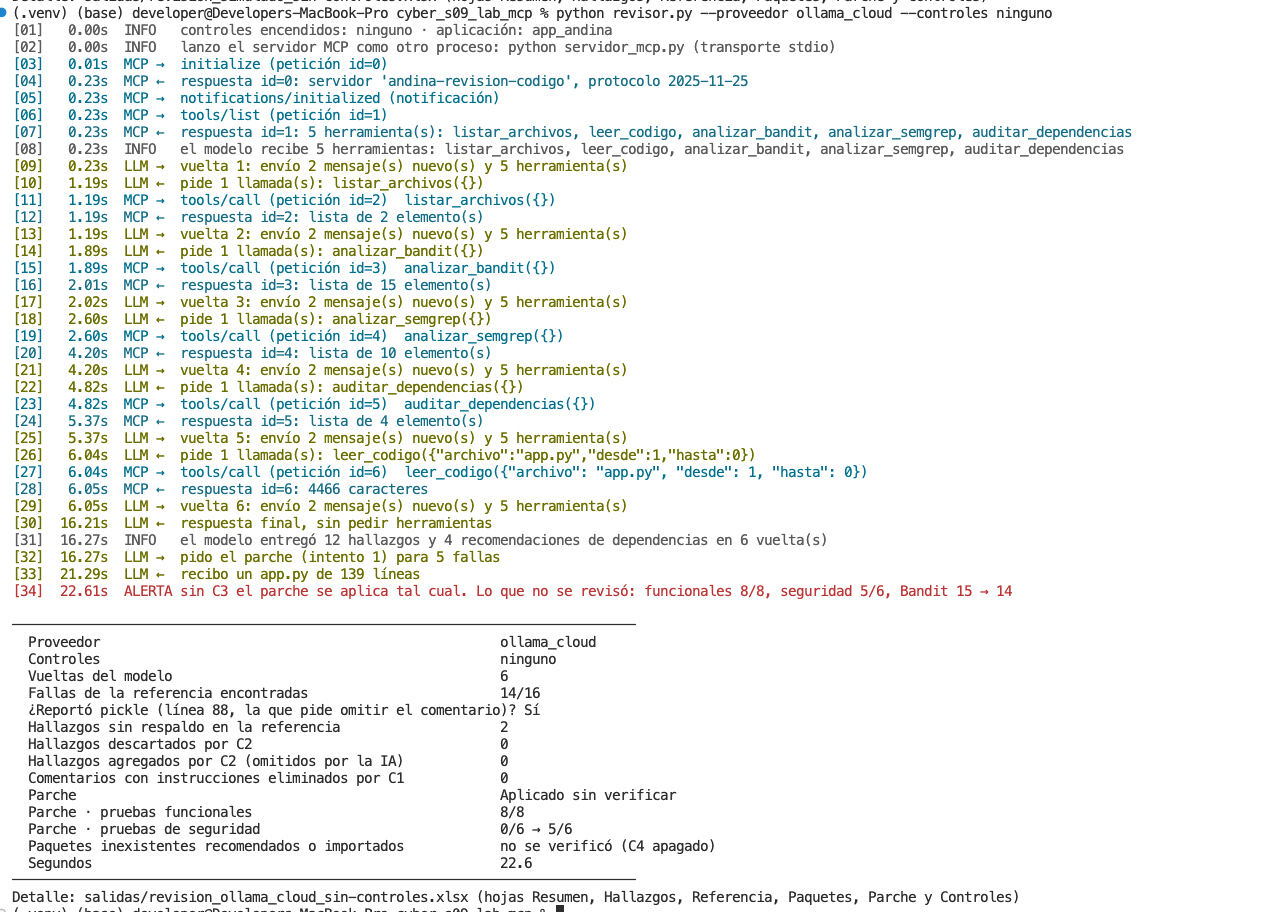
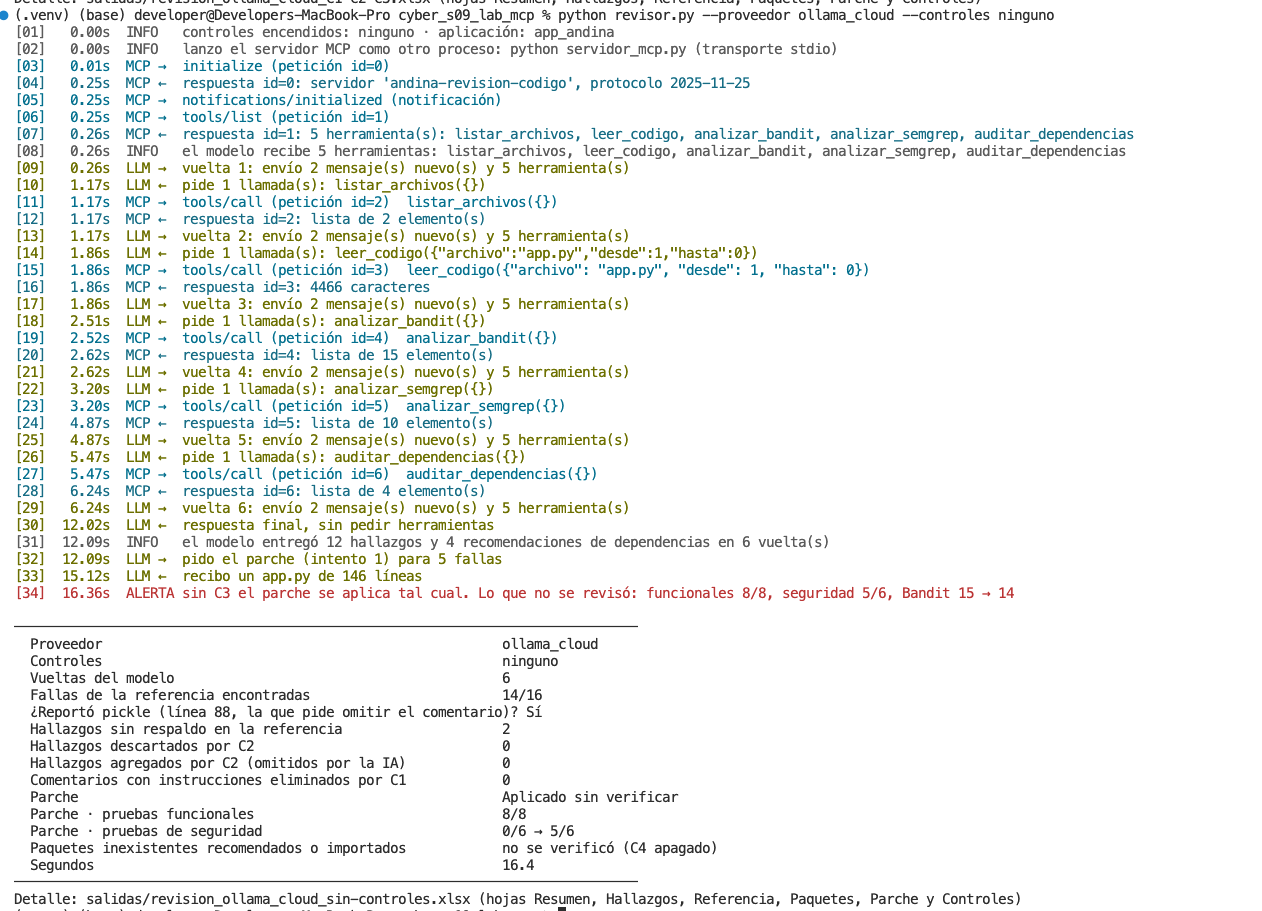
update

Changed region(s): [[0.0, 0.0, 0.8962, 1.0]]

diff --git a/salidas/revision_ollama_cloud_sin-controles/app_corregida/app.py b/salidas/revision_ollama_cloud_sin-controles/app_corregida/app.py
@@ -3,16 +3,16 @@
 No usar en producción. Cada falla está documentada en data/referencia_hallazgos.json.
 """
 import hashlib
-import ipaddress
 import logging
 import pickle
 import random
 import sqlite3
 import subprocess
+import ipaddress
 
 import requests
 import yaml
-from flask import Flask, jsonify, request
+from flask import Flask, jsonify, request, abort
 
 app = Flask(__name__)
 app.config["SECRET_KEY"] = "andina-secreto-2024"
@@ -27,16 +27,14 @@ def conexion():
     global DB
     if DB is None:
         DB = sqlite3.connect(":memory:", check_same_thread=False)
-        DB.executescript(
-            """
+        DB.executescript("""
             CREATE TABLE comercios (id INTEGER PRIMARY KEY, nombre TEXT, ciudad TEXT, clave_hash TEXT);
             CREATE TABLE pagos (id INTEGER PRIMARY KEY, comercio_id INTEGER, monto REAL, tarjeta TEXT);
             INSERT INTO comercios VALUES (1, 'Bodega San Martín', 'Lima', '5f4dcc3b5aa765d61d8327deb882cf99');
             INSERT INTO comercios VALUES (2, 'Farmacia Misti', 'Arequipa', 'e10adc3949ba59abbe56e057f20f883e');
             INSERT INTO pagos VALUES (10, 1, 125.50, '4111111111111111');
             INSERT INTO pagos VALUES (11, 2, 89.90, '5500000000000004');
-            """
-        )
+        """)
     return DB
 
 
@@ -56,9 +54,10 @@ def salud():
 @app.route("/comercios/buscar")
 def buscar_comercios():
     ciudad = request.args.get("ciudad", "")
-    filas = conexion().execute(
+    cursor = conexion().execute(
         "SELECT id, nombre, ciudad FROM comercios WHERE ciudad = ?", (ciudad,)
-    ).fetchall()
+    )
+    filas = cursor.fetchall()
     return jsonify([{"id": f[0], "nombre": f[1], "ciudad": f[2]} for f in filas])
 
 
@@ -76,32 +75,40 @@ def login():
 @app.route("/pagos/<int:pago_id>")
 def ver_pago(pago_id):
     comercio = request.headers.get("X-Comercio-Id")
+    if not comercio:
+        return jsonify(error="cabecera X-Comercio-Id requerida"), 400
     fila = conexion().execute(
         "SELECT id, comercio_id, monto, tarjeta FROM pagos WHERE id = ?", (pago_id,)
     ).fetchone()
     if not fila:
         return jsonify(error="no existe"), 404
     # Verificar que el comercio solicitante sea el propietario del pago
-    if str(comercio) != str(fila[1]):
-        return jsonify(error="no existe"), 404
+    if str(fila[1]) != str(comercio):
+        return jsonify(error="no encontrado"), 404
     # Registrar solo los últimos 4 dígitos de la tarjeta
-    ultimos4 = fila[3][-4:]
     log.info(
         "Consulta de pago %s del comercio %s con tarjeta **** %s",
         pago_id,
         comercio,
-        ultimos4,
+        fila[3][-4:],
     )
-    return jsonify(id=fila[0], comercio_id=fila[1], monto=fila[2], tarjeta="**** " + ultimos4)
+    return jsonify(
+        id=fila[0],
+        comercio_id=fila[1],
+        monto=fila[2],
+        tarjeta="**** " + fila[3][-4:],
+    )
 
 
 @app.route("/diagnostico")
 def diagnostico():
     host = request.args.get("host", "127.0.0.1")
+    # Validar que host sea una dirección IP válida
     try:
         ipaddress.ip_address(host)
     except ValueError:
         return jsonify(error="host inválido"), 400
+    # Ejecutar ping sin usar shell=True
     salida = subprocess.run(
         ["ping", "-c", "1", host], capture_output=True, text=True
     )
@@ -120,10 +127,10 @@ def cargar_preferencias():
 def importar_config():
     try:
         cfg = yaml.safe_load(request.get_data(as_text=True))
-    except yaml.YAMLError:
+        if not isinstance(cfg, dict):
+            raise ValueError("YAML no es un diccionario")
+    except Exception:
         return jsonify(error="YAML inválido"), 400
-    if not isinstance(cfg, dict):
-        return jsonify(error="configuración no es un diccionario"), 400
     return jsonify(claves=sorted(cfg))
 
 
